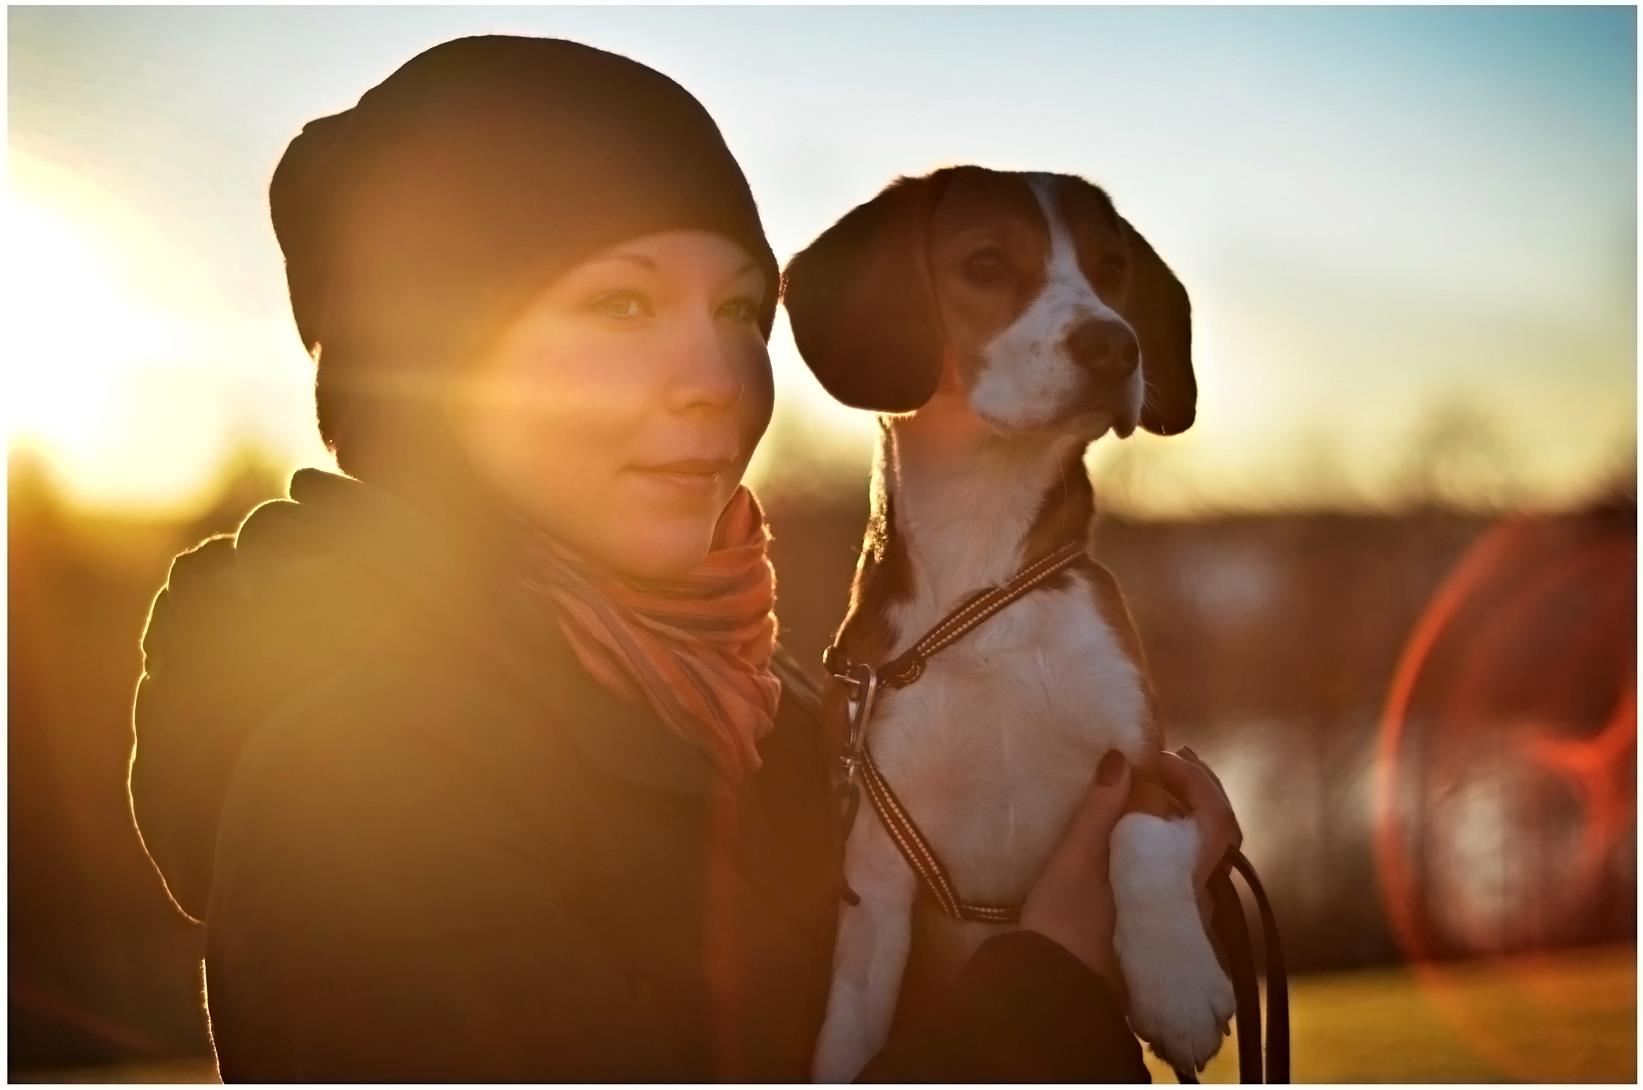
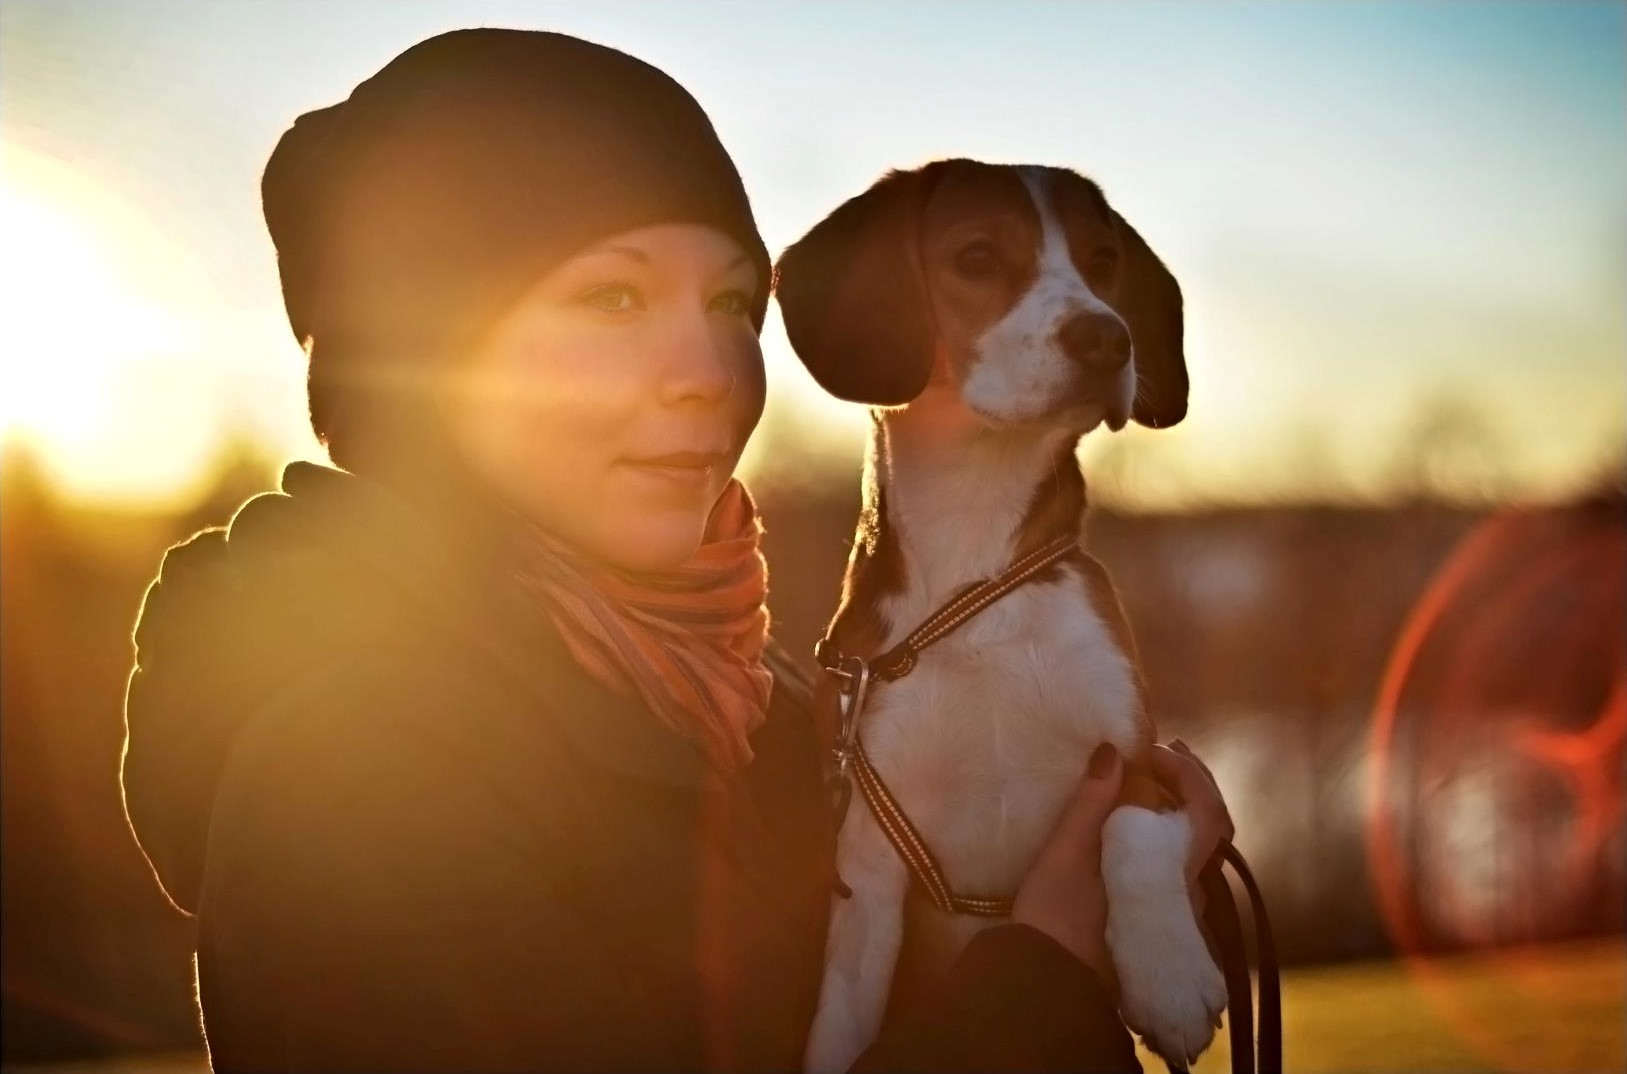
Modified a picture

diff --git a/index.html b/index.html
@@ -123,8 +123,8 @@
                 <div class="col-md-8">
                     <img class="bd-placeholder-img bd-placeholder-img-lg featurette-image img-fluid mx-auto"
                         src="assets/images/Pia.jpg" width="710" height="500">
-                    <img class="bd-placeholder-img bd-placeholder-img-lg featurette-image img-fluid mx-auto" style="padding-left: 3px;"
-                        src="assets/images/27.jpg" width="708" height="500">
+                    <img class="bd-placeholder-img bd-placeholder-img-lg featurette-image img-fluid mx-auto pt-1" 
+                        src="assets/images/27.jpg" width="710" height="500">
                     <div class="container my-3 py-3 pl-0 pr-4">
                         <div class="row">
                             <div class="col-sm text-center alert lead">
